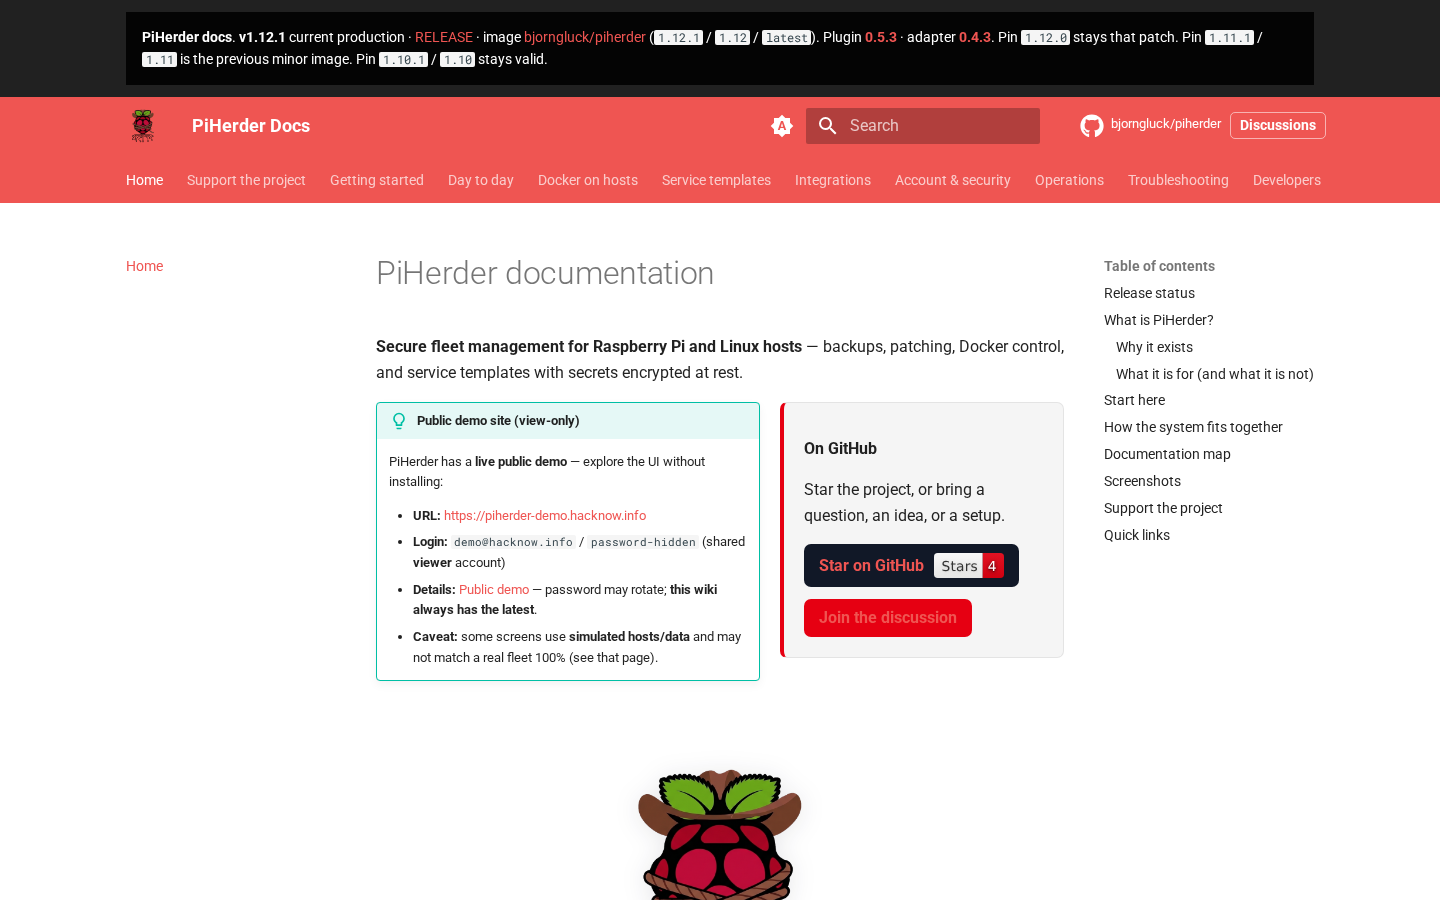
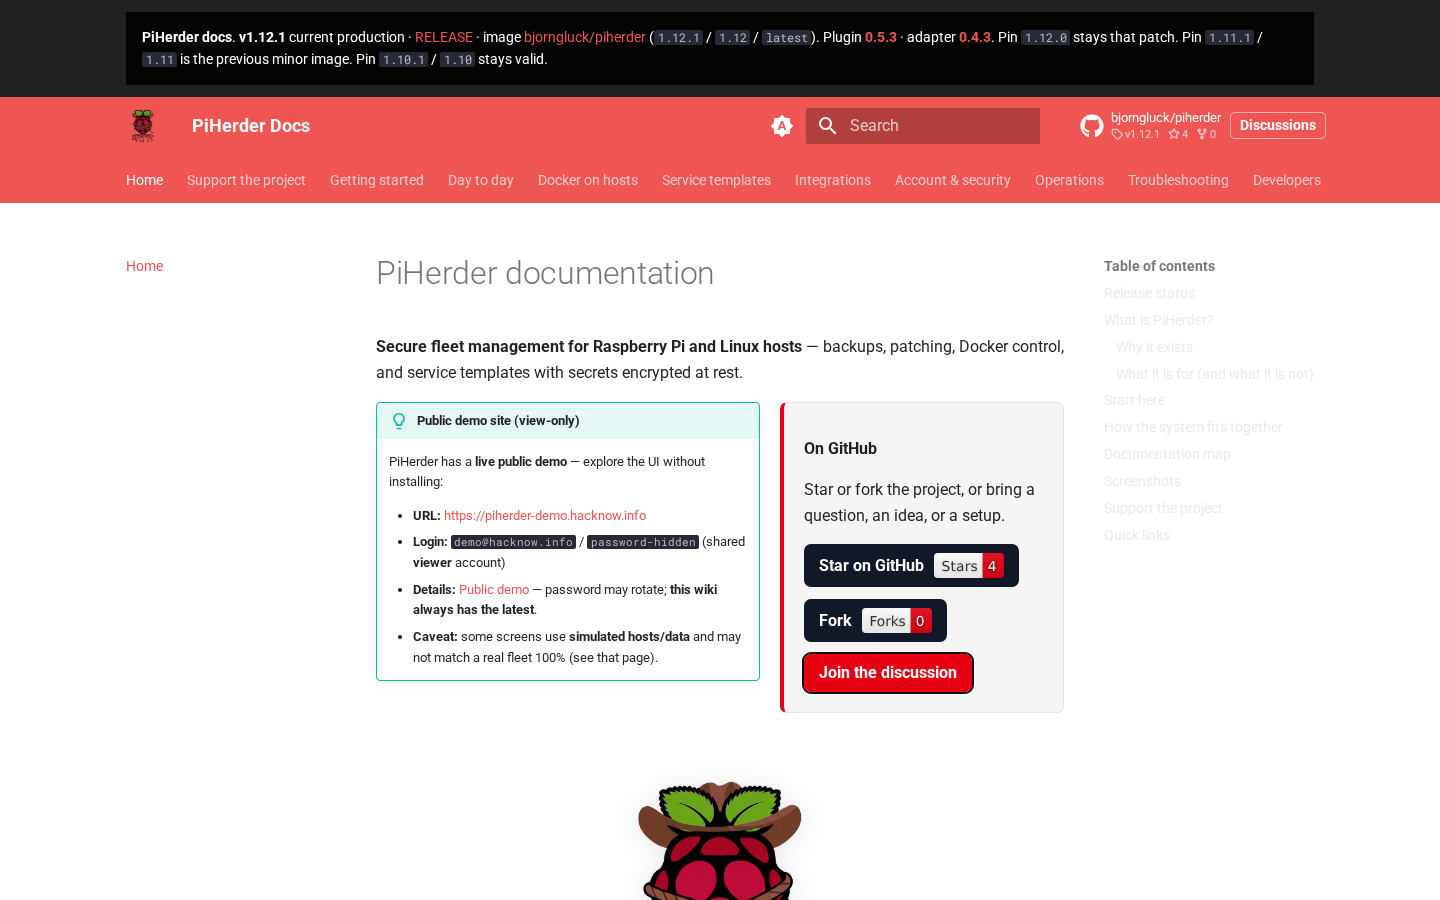
docs(v1.13): white CTA text and a Fork button
Theme link color was painting the discussion label red on the red button. Button text stays white in every state. The home call to action also has a Fork button with a live forks badge.

diff --git a/wiki/stylesheets/extra.css b/wiki/stylesheets/extra.css
@@ -198,7 +198,16 @@
   margin: 0.75rem 0 0;
 }
 
-.ph-btn {
+.md-typeset a.ph-btn,
+.md-typeset a.ph-btn:hover,
+.md-typeset a.ph-btn:focus,
+.md-typeset a.ph-btn:active,
+.md-typeset a.ph-btn:visited,
+[data-md-color-scheme="slate"] .md-typeset a.ph-btn,
+[data-md-color-scheme="slate"] .md-typeset a.ph-btn:hover,
+[data-md-color-scheme="slate"] .md-typeset a.ph-btn:focus,
+[data-md-color-scheme="slate"] .md-typeset a.ph-btn:active,
+[data-md-color-scheme="slate"] .md-typeset a.ph-btn:visited {
   display: inline-flex;
   align-items: center;
   justify-content: center;
@@ -208,16 +217,17 @@
   font-weight: 700;
   line-height: 1.2;
   text-decoration: none;
-  color: #fff;
+  color: #ffffff;
 }
 
-.ph-btn:hover,
-.ph-btn:focus {
-  color: #fff;
-  filter: brightness(1.06);
+.md-typeset a.ph-btn svg,
+[data-md-color-scheme="slate"] .md-typeset a.ph-btn svg {
+  fill: #ffffff;
+  color: #ffffff;
 }
 
-.ph-btn--star {
+.ph-btn--star,
+.ph-btn--fork {
   background: #111827;
 }
 

diff --git a/wiki/index.md b/wiki/index.md
@@ -18,9 +18,9 @@
 
 **On GitHub**
 
-Star the project, or bring a question, an idea, or a setup.
+Star or fork the project, or bring a question, an idea, or a setup.
 
-<p class="ph-cta-buttons" markdown="0"><a class="ph-btn ph-btn--star" href="https://github.com/bjorngluck/piherder">Star on GitHub <img alt="GitHub stars" src="https://img.shields.io/github/stars/bjorngluck/piherder?style=flat&amp;label=Stars&amp;labelColor=ffffff&amp;color=e60012"></a> <a class="ph-btn ph-btn--talk" href="https://github.com/bjorngluck/piherder/discussions">Join the discussion</a></p>
+<p class="ph-cta-buttons" markdown="0"><a class="ph-btn ph-btn--star" href="https://github.com/bjorngluck/piherder">Star on GitHub <img alt="GitHub stars" src="https://img.shields.io/github/stars/bjorngluck/piherder?style=flat&amp;label=Stars&amp;labelColor=ffffff&amp;color=e60012"></a> <a class="ph-btn ph-btn--fork" href="https://github.com/bjorngluck/piherder/fork">Fork <img alt="GitHub forks" src="https://img.shields.io/github/forks/bjorngluck/piherder?style=flat&amp;label=Forks&amp;labelColor=ffffff&amp;color=e60012"></a> <a class="ph-btn ph-btn--talk" href="https://github.com/bjorngluck/piherder/discussions">Join the discussion</a></p>
 
 </div>
 </div>
